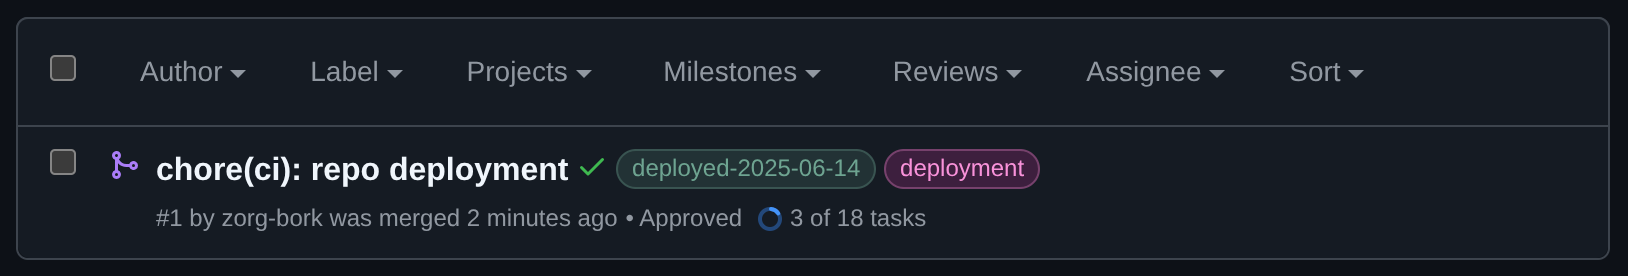
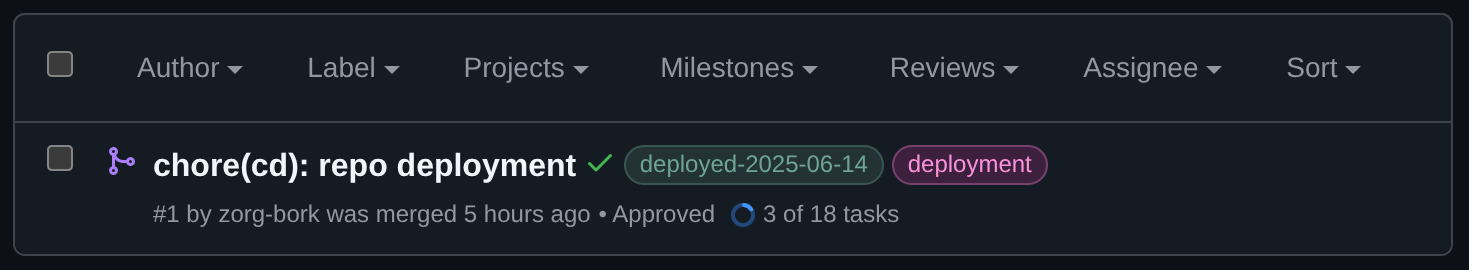
refactor: update docs

diff --git a/README.md b/README.md
@@ -18,7 +18,7 @@
    ```
 
 2. Goto **"Pull requests"** tab in GitHub and wait until pull request is created
-3. Open pull request `chore(ci): repo deployment` and select which repositories to deploy
+3. Open pull request `chore(cd): repo deployment` and select which repositories to deploy
 4. Wait until list of repositories is created
 5. Click `Squash and merge`
 6. Wait for all selected repositories to be deployed, label with date deployed is added to closed pull request
